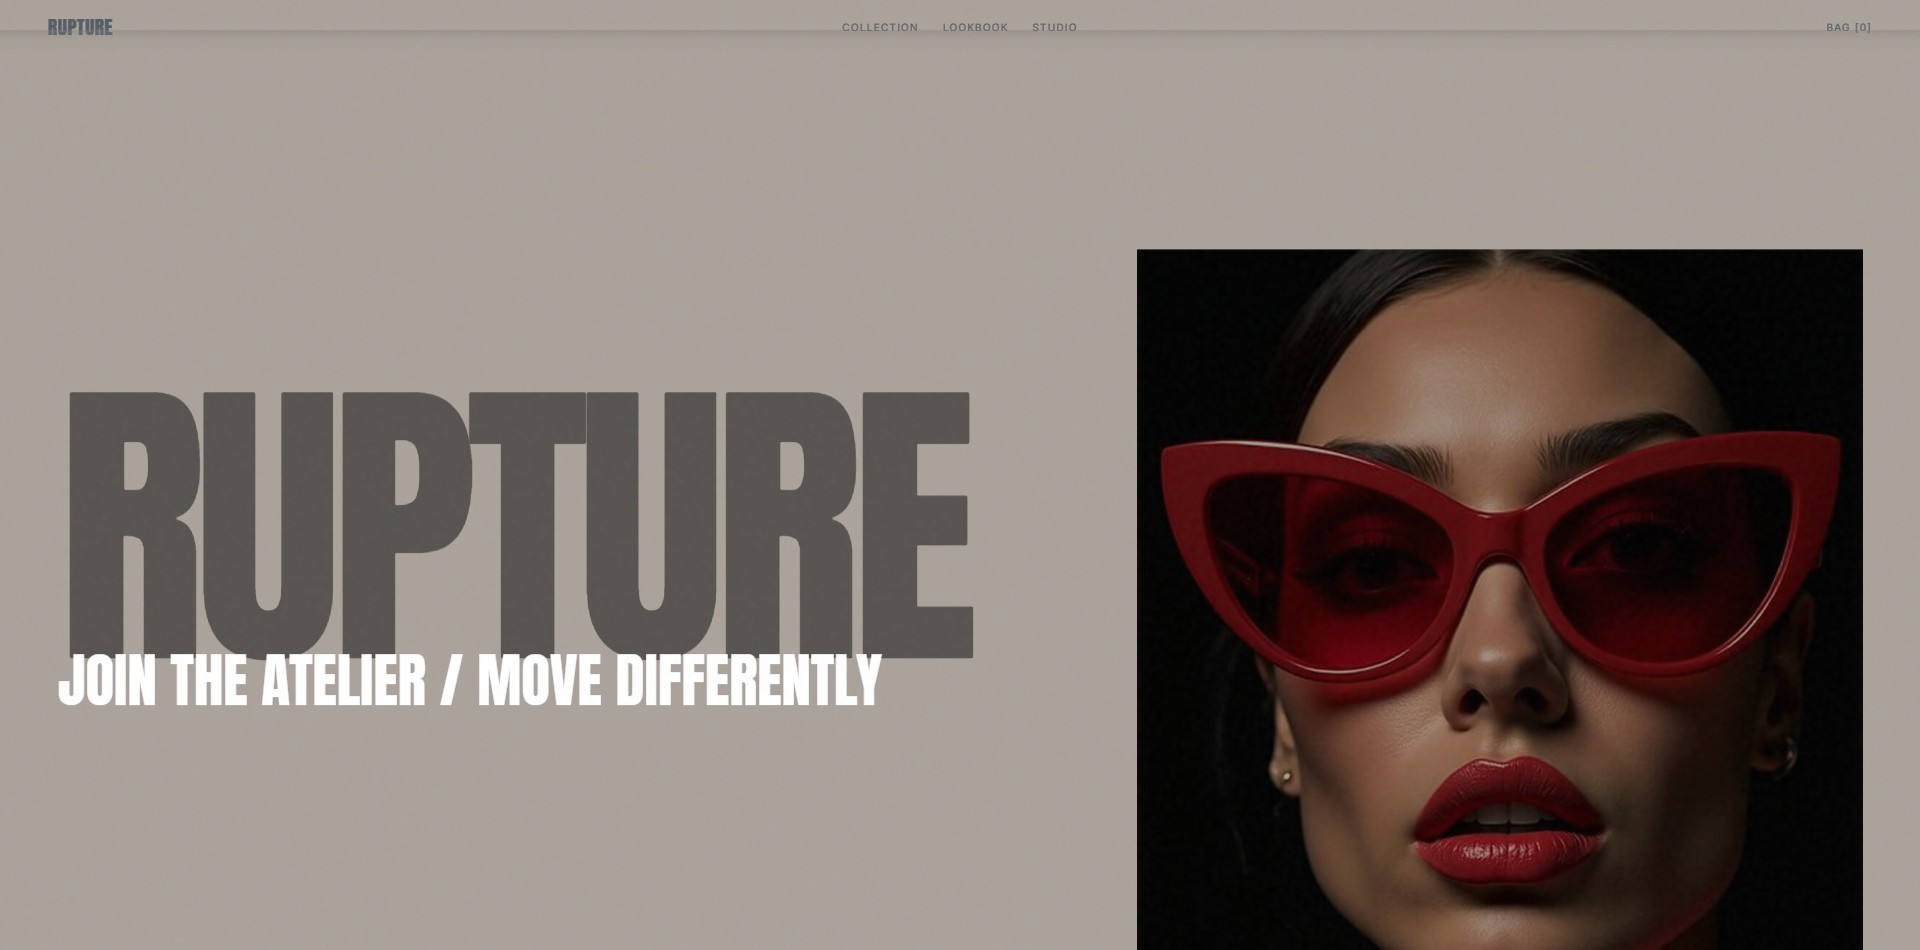
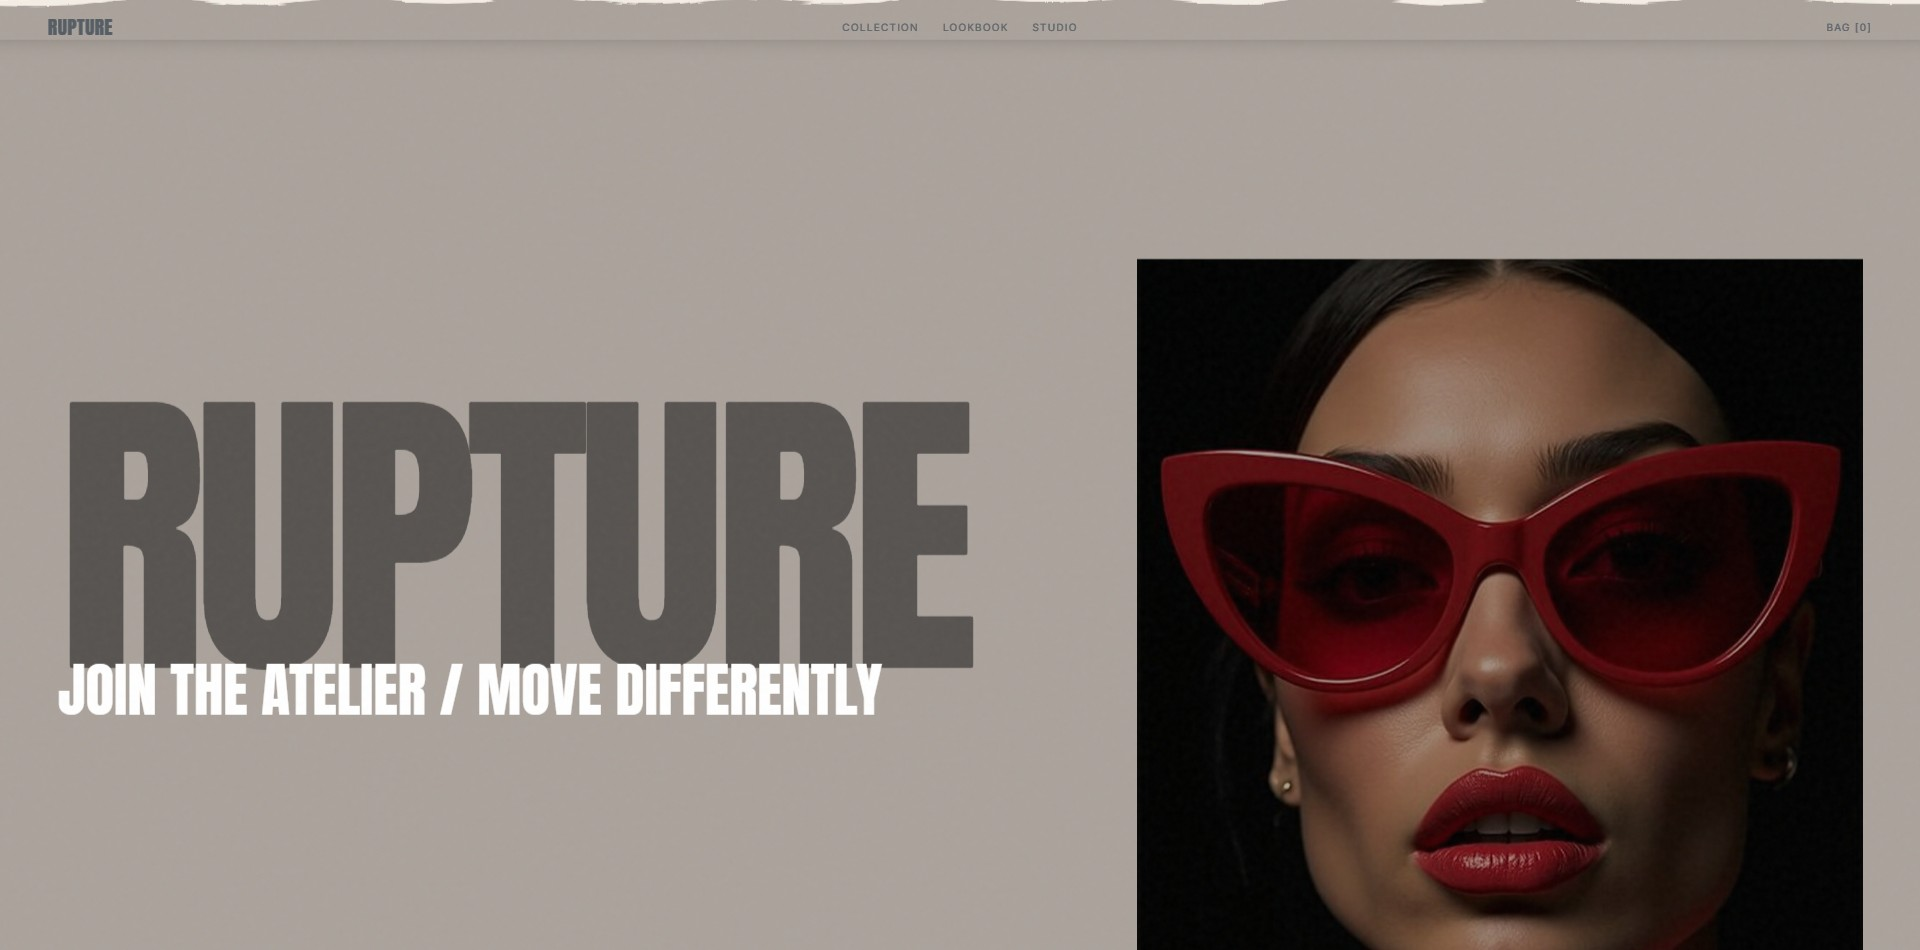
Rebuild Rupture paper roll and layout

diff --git a/rupture/index.html b/rupture/index.html
@@ -39,8 +39,8 @@ button,a{font:inherit}
 .hero-half video{width:100%;height:100%;object-fit:cover;object-position:center 10%}
 .hero-half.left{clip-path:polygon(0 0,48.8% 0,47.4% 4%,49.1% 8%,46.9% 13%,49.3% 18%,47.2% 23%,48.7% 29%,46.5% 34%,49% 40%,47.1% 46%,48.9% 52%,46.7% 58%,49.2% 64%,47% 70%,48.6% 76%,46.8% 82%,49.1% 88%,47.3% 94%,48.5% 100%,0 100%)}
 .hero-half.right{clip-path:polygon(53% 0,100% 0,100% 100%,52.6% 100%,54% 95%,51.9% 89%,54.2% 83%,52.1% 77%,54.4% 71%,52.2% 65%,54.1% 59%,51.8% 53%,54.3% 47%,52% 41%,54.2% 35%,52.1% 29%,54.4% 23%,52.2% 17%,54% 11%,52% 5%);filter:grayscale(.94) contrast(1.08) brightness(.92);transform:translateY(-1.2%)}
-.hero-seam{position:absolute;top:-3%;bottom:-3%;left:50%;width:clamp(62px,5.4vw,86px);transform:translateX(-50%);z-index:3;pointer-events:none;filter:drop-shadow(-7px 2px 7px rgba(35,28,22,.28)) drop-shadow(5px 1px 3px rgba(255,255,255,.48))}
-.hero-seam img{width:100%;height:100%;object-fit:fill}
+.hero-seam{position:absolute;top:-3%;bottom:-3%;left:50%;width:clamp(52px,4.2vw,70px);transform:translateX(-50%);z-index:3;pointer-events:none;filter:drop-shadow(-6px 2px 6px rgba(35,28,22,.34)) drop-shadow(4px 1px 3px rgba(255,255,255,.44))}
+.hero-seam img{position:absolute;left:50%;top:50%;width:calc(100svh + 130px);height:clamp(52px,4.2vw,70px);max-width:none;object-fit:fill;transform:translate(-50%,-50%) rotate(90deg)}
 .hero-copy{position:absolute;right:4.2%;top:50%;width:min(33vw,580px);transform:translateY(-50%);z-index:5;text-align:left}
 .hero-copy h1{font-family:var(--display);font-size:clamp(42px,6vw,116px);line-height:.79;letter-spacing:-.025em;text-transform:uppercase}
 .hero-copy h1 span{display:block;white-space:nowrap}
@@ -54,9 +54,9 @@ button,a{font:inherit}
 .arrivals{position:relative;background:var(--paper)}
 .arrivals-pin{position:relative;height:100svh;min-height:620px;overflow:hidden;padding-top:76px}
 .pin-head{position:relative;z-index:10;display:flex;align-items:flex-end;justify-content:space-between;padding:0 clamp(24px,4vw,60px) 22px}
-.pin-head h2{font-family:var(--display);font-size:clamp(42px,6.5vw,118px);line-height:.82;text-transform:uppercase;letter-spacing:-.02em}
+.pin-head h2{font-family:var(--display);font-size:clamp(42px,5.2vw,96px);line-height:.86;text-transform:uppercase;letter-spacing:-.018em}
 .pin-head p{max-width:28ch;font-size:11px;line-height:1.5;color:var(--muted);text-align:right}
-.arrivals-window{position:absolute;left:0;right:0;bottom:28px;top:27%;overflow:hidden}
+.arrivals-window{position:absolute;left:0;right:0;bottom:28px;top:32%;overflow:hidden}
 .arrivals-track{height:100%;display:flex;gap:16px;width:max-content;padding:0 5vw;will-change:transform}
 .product-card{position:relative;flex:0 0 clamp(270px,28vw,470px);height:100%;overflow:hidden;background:#ddd5c9}
 .product-card.wide{flex-basis:clamp(310px,34vw,570px)}
@@ -101,8 +101,8 @@ button,a{font:inherit}
 /* Turntable editorial */
 .turntable{position:relative;min-height:100svh;background:var(--paper);display:grid;grid-template-columns:.82fr 1.18fr;align-items:stretch;overflow:hidden}
 .turn-copy{display:flex;flex-direction:column;justify-content:center;padding:10vh 6vw;position:relative;z-index:4}
-.turn-copy h2{font-family:var(--display);font-size:clamp(58px,8vw,148px);line-height:.78;text-transform:uppercase}
-.turn-copy h2 em{display:block;color:var(--red);font-family:var(--serif);font-weight:420;text-transform:none}
+.turn-copy h2{font-family:var(--display);font-size:clamp(54px,6.4vw,118px);line-height:.88;text-transform:uppercase}
+.turn-copy h2 em{display:block;color:var(--red);font-family:var(--serif);font-weight:420;text-transform:none;margin-top:.05em}
 .turn-copy p{margin-top:28px;max-width:40ch;font-size:13px;line-height:1.65;color:var(--muted)}
 .turn-media{position:relative;min-height:100svh;background:#dfd7ca;overflow:hidden}
 .turn-media video{width:100%;height:100%;object-fit:cover;object-position:center 8%}
@@ -113,30 +113,27 @@ button,a{font:inherit}
 
 /* Crouching model and painted words */
 .crouch{position:relative;height:100svh;min-height:620px;overflow:hidden;background:#f5f1e9}
-.crouch-lines{position:absolute;inset:0;z-index:1;display:flex;align-items:center;justify-content:center;pointer-events:none}
-.painted{font-family:var(--display);font-size:clamp(80px,15vw,280px);line-height:.75;text-transform:uppercase;color:var(--red);white-space:nowrap;letter-spacing:-.04em;transform:rotate(-5deg);clip-path:inset(0 100% 0 0);filter:url(#paintRough)}
+.crouch-lines{position:absolute;inset:12vh 0 0;z-index:7;display:flex;align-items:center;justify-content:center;pointer-events:none}
+.painted{font-family:var(--display);font-size:clamp(72px,11vw,210px);line-height:.82;text-transform:uppercase;color:var(--red);white-space:nowrap;letter-spacing:-.025em;transform:rotate(-4deg);clip-path:inset(0 100% 0 0);filter:url(#paintRough);text-shadow:0 3px 0 rgba(255,255,255,.18)}
 .crouch-video{position:absolute;left:52%;top:50%;height:88%;width:min(42vw,590px);transform:translate(-50%,-48%);z-index:3;overflow:hidden}
 .crouch-video video{width:100%;height:100%;object-fit:cover;object-position:center 5%;mix-blend-mode:multiply}
 .crouch-copy{position:absolute;z-index:5;left:4vw;right:4vw;top:10%;display:flex;justify-content:space-between;align-items:flex-start}
-.crouch-copy h2{font-family:var(--display);font-size:clamp(48px,6vw,108px);line-height:.8;text-transform:uppercase}
+.crouch-copy h2{font-family:var(--display);font-size:clamp(46px,4.8vw,86px);line-height:.87;text-transform:uppercase;letter-spacing:-.012em}
 .crouch-copy .right{text-align:right;max-width:24ch;font-size:11px;line-height:1.55;color:var(--muted)}
 .freedom{position:absolute;right:4vw;bottom:5vh;z-index:5;font-family:var(--display);font-size:clamp(48px,7vw,130px);line-height:.8;text-transform:uppercase}
 .freedom small{display:block;color:var(--red);font-size:.12em;letter-spacing:.16em;text-align:right;margin-bottom:10px}
 
-/* Lips mask film */
+/* One continuous film: kiss reveal into torn-paper takeover */
 .vision-intro{position:relative;min-height:62vh;display:grid;place-items:center;text-align:center;padding:100px 24px;background:var(--paper)}
-.vision-intro h2{font-family:var(--display);font-size:clamp(56px,9vw,170px);line-height:.78;text-transform:uppercase}
-.vision-intro h2 em{color:var(--red);font-family:var(--serif);font-weight:400;text-transform:none}
+.vision-intro h2{font-family:var(--display);font-size:clamp(54px,6.6vw,122px);line-height:.88;text-transform:uppercase}
+.vision-intro h2 em{display:block;color:var(--red);font-family:var(--serif);font-weight:400;text-transform:none;margin-top:.03em}
 .vision-intro p{max-width:60ch;margin:26px auto 0;color:var(--muted);font-size:12px;line-height:1.65}
-.mask-section{position:relative;background:var(--paper)}
-.mask-pin{position:relative;height:100svh;min-height:600px;overflow:hidden;background:var(--paper)}
-.mask-video{position:absolute;inset:0;width:100%;height:100%;object-fit:cover;object-position:center 28%;-webkit-mask-image:var(--lips-mask);mask-image:var(--lips-mask);-webkit-mask-repeat:no-repeat;mask-repeat:no-repeat;-webkit-mask-position:center;mask-position:center;-webkit-mask-size:18% auto;mask-size:18% auto;will-change:-webkit-mask-size,mask-size}
+.film-story{position:relative;background:var(--dark)}
+.film-pin{position:relative;height:100svh;min-height:620px;overflow:hidden;background:var(--paper)}
+.mask-video{position:absolute;inset:0;width:100%;height:100%;object-fit:cover;object-position:center 28%;filter:brightness(.78) saturate(.86);-webkit-mask-image:var(--lips-mask);mask-image:var(--lips-mask);-webkit-mask-repeat:no-repeat;mask-repeat:no-repeat;-webkit-mask-position:center;mask-position:center;-webkit-mask-size:18% auto;mask-size:18% auto;will-change:-webkit-mask-size,mask-size}
 .mask-label{position:absolute;left:50%;top:50%;z-index:4;transform:translate(-50%,-50%);font-family:var(--display);font-size:11px;letter-spacing:.22em;text-transform:uppercase;color:#fff;mix-blend-mode:difference;pointer-events:none}
 
-/* Torn-paper takeover */
-.tear-section{position:relative;background:var(--dark)}
-.tear-pin{position:relative;height:100svh;min-height:620px;overflow:hidden;background:var(--dark)}
-.tear-film{position:absolute;inset:0;width:100%;height:100%;object-fit:cover;object-position:center 28%;filter:brightness(.72) saturate(.82)}
+/* Torn-paper takeover inside the same pinned film */
 .paper-sheet{position:absolute;left:-2%;right:-2%;top:0;height:112%;z-index:4;background:#aaa29b;color:#22201f;transform:none;box-shadow:0 -30px 70px rgba(0,0,0,.55);will-change:transform}
 .deckle{position:absolute;left:0;right:0;top:-82px;height:100px;filter:drop-shadow(0 -8px 12px rgba(0,0,0,.42));line-height:0}
 .deckle svg{width:100%;height:100%}
@@ -155,14 +152,7 @@ button,a{font:inherit}
 .loop-hero video{justify-self:center;height:92vh;max-width:48vw;object-fit:cover;object-position:center 8%;filter:contrast(1.02)}
 .loop-hero h2{font-family:var(--display);font-size:clamp(58px,8vw,155px);line-height:.78;text-transform:uppercase}
 .loop-hero h2 span{display:block;color:var(--red);font-family:var(--serif);font-style:italic;text-transform:none;font-weight:400}
-.curl-sheet{position:absolute;inset:-9%;z-index:8;transform:rotate(-5.5deg) scale(1.13);transform-style:preserve-3d;pointer-events:none}
-.curl-page{position:absolute;inset:-9%;z-index:8;overflow:hidden;transform-origin:100% 50%;transform:rotate(-5.5deg) scale(1.13);will-change:transform,border-radius,box-shadow;backface-visibility:hidden;background:#aaa29b}
-.curl-page img{width:100%;height:100%;object-fit:cover;filter:saturate(.86)}
-.curl-page::after{content:"";position:absolute;z-index:2;top:-8%;bottom:-8%;right:-8%;width:28%;border-radius:50%;background:linear-gradient(90deg,transparent,rgba(0,0,0,.3) 24%,rgba(249,244,235,.92) 49%,rgba(159,150,141,.7) 66%,transparent);filter:drop-shadow(-22px 0 24px rgba(0,0,0,.38));pointer-events:none}
-.curl-strip{position:absolute;top:0;bottom:0;overflow:hidden;transform-origin:left center;transform-style:preserve-3d;backface-visibility:hidden;will-change:transform,opacity;background:#aaa29b}
-.curl-strip img{position:absolute;top:0;height:100%;width:calc(100vw * 1.18);max-width:none;object-fit:cover;object-position:center;filter:saturate(.82)}
-.curl-strip::after{content:"";position:absolute;inset:0;background:linear-gradient(90deg,rgba(255,255,255,.7),transparent 24%,transparent 70%,rgba(0,0,0,.26));mix-blend-mode:soft-light}
-.curl-fold{position:absolute;z-index:9;top:-18%;bottom:-18%;left:50%;width:23vw;min-width:240px;border-radius:50%;pointer-events:none;transform:rotate(-5.5deg);background:linear-gradient(90deg,transparent 0%,rgba(0,0,0,.34) 16%,rgba(246,241,232,.96) 42%,rgba(171,163,153,.92) 61%,transparent 100%);filter:drop-shadow(-18px 0 24px rgba(0,0,0,.3));opacity:0}
+.curl-canvas{position:absolute;inset:0;z-index:8;width:100%;height:100%;pointer-events:none;will-change:contents}
 .curl-caption{position:absolute;right:3vw;bottom:3vh;z-index:10;font-family:var(--display);font-size:10px;letter-spacing:.17em;text-transform:uppercase;color:#fff;mix-blend-mode:difference}
 
 @media(max-width:900px){
@@ -173,16 +163,16 @@ button,a{font:inherit}
 }
 @media(max-width:640px){
   .hero{min-height:700px}.hero-kicker{top:9%;left:20px;font-size:27px}.hero-model{left:50%;top:17%;bottom:0;width:78vw;height:83%}.hero-copy{right:20px;top:19%;width:44vw;transform:none;text-align:right}.hero-copy h1{font-size:9.7vw}.drop-stamp{bottom:9%;font-size:13vw}.hero-meta{left:20px;right:20px}
-  .pin-head{padding-inline:18px}.arrivals-window{top:24%}.product-card,.product-card.wide{flex-basis:74vw}.kiss-badge{width:72px}
+  .pin-head{padding-inline:18px}.pin-head h2{font-size:12vw}.arrivals-window{top:30%}.product-card,.product-card.wide{flex-basis:74vw}.kiss-badge{width:72px}
   .campaign-copy{left:20px}.campaign-copy h2{font-size:18vw}
   .categories-title{left:20px}.categories-hint{display:none}.category-card,.flip-shell{flex-basis:68vw}
-  .turntable{grid-template-columns:1fr;min-height:150svh}.turn-copy{min-height:55svh;padding:90px 24px 40px}.turn-media{min-height:95svh}.turn-copy h2{font-size:17vw}
-  .crouch-video{left:50%;width:88vw;height:78%;top:55%}.crouch-copy{left:20px;right:20px}.crouch-copy .right{display:none}.painted{font-size:20vw}.freedom{right:20px;font-size:15vw}
-  .vision-intro{min-height:70svh}.vision-intro h2{font-size:17vw}
+  .turntable{grid-template-columns:1fr;min-height:150svh}.turn-copy{min-height:55svh;padding:90px 24px 40px}.turn-media{min-height:95svh}.turn-copy h2{font-size:14vw}
+  .crouch-video{left:50%;width:88vw;height:78%;top:55%}.crouch-copy{left:20px;right:20px}.crouch-copy .right{display:none}.crouch-copy h2{font-size:12vw}.crouch-lines{inset:16vh 0 0}.painted{font-size:17vw}.freedom{right:20px;font-size:13vw}
+  .vision-intro{min-height:70svh}.vision-intro h2{font-size:14vw}
   .paper-content{grid-template-columns:1fr;padding:8vh 24px}.paper-title{font-size:24vw;align-self:start}.paper-model{position:absolute;right:-6%;bottom:0;width:62%;height:75%;opacity:.9}.paper-join{left:24px;right:24px}
   .loop-hero{grid-template-columns:1fr;padding:60px 24px}.loop-hero video{position:absolute;right:-12%;bottom:0;height:83%;max-width:78vw;opacity:.92}.loop-hero h2{position:relative;z-index:2;font-size:17vw}
 }
-@media(prefers-reduced-motion:reduce){.kiss-badge{animation:none}.curl-sheet,.curl-page{display:none}.mask-video{-webkit-mask:none;mask:none}}
+@media(prefers-reduced-motion:reduce){.kiss-badge{animation:none}.curl-canvas{display:none}.mask-video{-webkit-mask:none;mask:none}}
 </style>
 </head>
 <body>
@@ -197,7 +187,7 @@ button,a{font:inherit}
   <div class="hero-model" aria-label="Moving model in the Rupture collection">
     <div class="hero-half left"><video class="autoplay" autoplay muted loop playsinline preload="auto" poster="img/ru_hero.jpg"><source src="vid/ru_hero.mp4" type="video/mp4"></video></div>
     <div class="hero-half right"><video class="autoplay" autoplay muted loop playsinline preload="auto" poster="img/ru_hero.jpg"><source src="vid/ru_hero.mp4" type="video/mp4"></video></div>
-    <div class="hero-seam" aria-hidden="true"><img src="img/torn-seam.svg" alt=""></div>
+    <div class="hero-seam" aria-hidden="true"><img src="img/paper-rip-strip.png" alt=""></div>
     <div class="drop-stamp"><b>NEW</b> DROP</div>
   </div>
   <div class="hero-copy"><h1 class="fit-group"><span>Glamour,</span><span class="accent">fractured.</span></h1></div>
@@ -254,11 +244,9 @@ button,a{font:inherit}
 
 <section class="vision-intro"><div><div class="eyebrow">05 / Rupture film</div><h2>A vision<em>in motion.</em></h2><p>A kiss becomes a screen. The collection opens from a mark into a room, then tears the room apart again.</p></div></section>
 
-<section class="mask-section" id="film"><div class="mask-pin"><video class="mask-video autoplay" id="maskVideo" autoplay muted loop playsinline preload="metadata" poster="img/ru_couple.jpg"><source src="vid2/couple.mp4" type="video/mp4"></video><div class="mask-label">Enter the film</div></div></section>
+<section class="film-story" id="film"><div class="film-pin mask-pin tear-pin"><video class="mask-video autoplay" id="maskVideo" autoplay muted loop playsinline preload="metadata" poster="img/ru_couple.jpg"><source src="vid2/couple.mp4" type="video/mp4"></video><div class="mask-label">Enter the film</div><div class="paper-sheet" id="paperSheet"><div class="deckle" aria-hidden="true"><svg viewBox="0 0 1600 110" preserveAspectRatio="none"><defs><filter id="deckleLip" x="-3%" y="-35%" width="106%" height="170%"><feTurbulence type="fractalNoise" baseFrequency=".018 .23" numOctaves="3" seed="47" result="noise"/><feDisplacementMap in="SourceGraphic" in2="noise" scale="6" xChannelSelector="R" yChannelSelector="G"/></filter><filter id="deckleMain" x="-3%" y="-35%" width="106%" height="170%"><feTurbulence type="fractalNoise" baseFrequency=".014 .19" numOctaves="4" seed="23" result="noise"/><feDisplacementMap in="SourceGraphic" in2="noise" scale="8" xChannelSelector="R" yChannelSelector="G"/></filter></defs><path d="M-50 67 C20 57 48 75 112 60 C170 47 205 74 265 61 C324 49 358 71 420 57 C482 45 520 73 579 60 C641 47 676 75 738 58 C800 44 836 72 898 60 C958 49 997 74 1058 56 C1119 44 1159 72 1219 59 C1281 47 1318 74 1380 57 C1442 45 1480 73 1650 59 L1650 145 L-50 145 Z" fill="#f4eee5" filter="url(#deckleLip)"/><path d="M-50 75 C27 65 54 82 118 68 C178 57 211 83 272 69 C332 58 367 80 428 67 C489 55 526 82 587 69 C648 57 684 83 746 66 C808 54 844 80 906 68 C967 57 1004 82 1066 65 C1127 53 1165 81 1227 67 C1288 56 1325 82 1387 65 C1449 54 1487 82 1650 67 L1650 145 L-50 145 Z" fill="#aaa29b" filter="url(#deckleMain)"/><path d="M-50 67 C20 57 48 75 112 60 C170 47 205 74 265 61 C324 49 358 71 420 57 C482 45 520 73 579 60 C641 47 676 75 738 58 C800 44 836 72 898 60 C958 49 997 74 1058 56 C1119 44 1159 72 1219 59 C1281 47 1318 74 1380 57 C1442 45 1480 73 1650 59" fill="none" stroke="#fffaf0" stroke-width="2.4" opacity=".72" filter="url(#deckleLip)"/></svg></div><div class="paper-content"><div class="paper-title">Rupture<span>Join the atelier / move differently</span></div><div class="paper-model"><img src="img/ru_red.jpg" alt="Rupture model in the closing editorial"></div></div><div class="paper-join"><span>Berlin / Kyiv / 2026</span><button type="button">Subscribe</button><span>Instagram / Journal</span></div></div></div></section>
 
-<section class="tear-section"><div class="tear-pin"><video class="tear-film autoplay" autoplay muted loop playsinline preload="metadata" poster="img/ru_couple.jpg"><source src="vid2/couple.mp4" type="video/mp4"></video><div class="paper-sheet" id="paperSheet"><div class="deckle" aria-hidden="true"><svg viewBox="0 0 1600 110" preserveAspectRatio="none"><defs><filter id="deckleLip" x="-3%" y="-35%" width="106%" height="170%"><feTurbulence type="fractalNoise" baseFrequency=".018 .23" numOctaves="3" seed="47" result="noise"/><feDisplacementMap in="SourceGraphic" in2="noise" scale="6" xChannelSelector="R" yChannelSelector="G"/></filter><filter id="deckleMain" x="-3%" y="-35%" width="106%" height="170%"><feTurbulence type="fractalNoise" baseFrequency=".014 .19" numOctaves="4" seed="23" result="noise"/><feDisplacementMap in="SourceGraphic" in2="noise" scale="8" xChannelSelector="R" yChannelSelector="G"/></filter></defs><path d="M-50 67 C20 57 48 75 112 60 C170 47 205 74 265 61 C324 49 358 71 420 57 C482 45 520 73 579 60 C641 47 676 75 738 58 C800 44 836 72 898 60 C958 49 997 74 1058 56 C1119 44 1159 72 1219 59 C1281 47 1318 74 1380 57 C1442 45 1480 73 1650 59 L1650 145 L-50 145 Z" fill="#f4eee5" filter="url(#deckleLip)"/><path d="M-50 75 C27 65 54 82 118 68 C178 57 211 83 272 69 C332 58 367 80 428 67 C489 55 526 82 587 69 C648 57 684 83 746 66 C808 54 844 80 906 68 C967 57 1004 82 1066 65 C1127 53 1165 81 1227 67 C1288 56 1325 82 1387 65 C1449 54 1487 82 1650 67 L1650 145 L-50 145 Z" fill="#aaa29b" filter="url(#deckleMain)"/><path d="M-50 67 C20 57 48 75 112 60 C170 47 205 74 265 61 C324 49 358 71 420 57 C482 45 520 73 579 60 C641 47 676 75 738 58 C800 44 836 72 898 60 C958 49 997 74 1058 56 C1119 44 1159 72 1219 59 C1281 47 1318 74 1380 57 C1442 45 1480 73 1650 59" fill="none" stroke="#fffaf0" stroke-width="2.4" opacity=".72" filter="url(#deckleLip)"/></svg></div><div class="paper-content"><div class="paper-title">Rupture<span>Join the atelier / move differently</span></div><div class="paper-model"><img src="img/ru_red.jpg" alt="Rupture model in the closing editorial"></div></div><div class="paper-join"><span>Berlin / Kyiv / 2026</span><button type="button">Subscribe</button><span>Instagram / Journal</span></div></div></div></section>
-
-<section class="curl-section" id="loop"><div class="curl-pin"><div class="loop-hero"><video class="autoplay" autoplay muted loop playsinline preload="metadata" poster="img/ru_hero.jpg"><source src="vid/ru_hero.mp4" type="video/mp4"></video><h2>Begin the<span>fracture again.</span></h2></div><div class="curl-page" id="curlPage" aria-hidden="true"><img src="img/footer-scene.jpg" alt=""></div><div class="curl-caption">The previous page rolls back into the beginning</div></div></section>
+<section class="curl-section" id="loop"><div class="curl-pin"><div class="loop-hero"><video class="autoplay" autoplay muted loop playsinline preload="metadata" poster="img/ru_hero.jpg"><source src="vid/ru_hero.mp4" type="video/mp4"></video><h2>Begin the<span>fracture again.</span></h2></div><canvas class="curl-canvas" id="curlCanvas" aria-hidden="true"></canvas><div class="curl-caption">The torn page rolls back into the beginning</div></div></section>
 
 <script src="../studio-terra/lib/gsap.min.js"></script>
 <script src="../studio-terra/lib/ScrollTrigger.min.js"></script>
@@ -281,8 +269,77 @@ function fitText(){
 }
 addEventListener('resize',fitText);addEventListener('load',fitText);if(document.fonts&&document.fonts.ready)document.fonts.ready.then(fitText);
 
-const state={version:36,arrivals:0,categories:0,mask:0,tear:0,curl:0};
-let arrivalsTween,categoryTimeline,maskTween,tearTween,curlTimeline;
+/* The closing page is raster-masked by the generated paper rip, then redrawn as a curved strip mesh. */
+const curlCanvas=document.getElementById('curlCanvas');
+const curlContext=curlCanvas.getContext('2d',{alpha:true});
+const curlSource=document.createElement('canvas');
+const curlSourceContext=curlSource.getContext('2d',{alpha:true});
+const curlMask=document.createElement('canvas');
+const curlMaskContext=curlMask.getContext('2d',{alpha:true});
+const curlTexture=new Image();curlTexture.decoding='async';curlTexture.src='img/footer-scene.jpg';
+const curlRip=new Image();curlRip.decoding='async';curlRip.src='img/paper-rip-strip.png';
+const curlDriver={progress:0};
+let curlReady=false,curlFrame=0;
+
+function coverImage(ctx,img,w,h){
+  const scale=Math.max(w/img.naturalWidth,h/img.naturalHeight),sw=w/scale,sh=h/scale;
+  const sx=(img.naturalWidth-sw)/2,sy=(img.naturalHeight-sh)/2;
+  ctx.drawImage(img,sx,sy,sw,sh,0,0,w,h);
+}
+function rebuildCurlTexture(){
+  if(!curlTexture.complete||!curlRip.complete||!curlTexture.naturalWidth||!curlRip.naturalWidth)return;
+  const w=Math.max(1,innerWidth),h=Math.max(1,innerHeight),dpr=Math.min(devicePixelRatio||1,1.5);
+  curlCanvas.width=Math.round(w*dpr);curlCanvas.height=Math.round(h*dpr);curlContext.setTransform(dpr,0,0,dpr,0,0);curlContext.imageSmoothingEnabled=true;curlContext.imageSmoothingQuality='high';
+  curlSource.width=curlMask.width=w;curlSource.height=curlMask.height=h;
+  curlSourceContext.clearRect(0,0,w,h);coverImage(curlSourceContext,curlTexture,w,h);
+  curlMaskContext.clearRect(0,0,w,h);curlMaskContext.fillStyle='#fff';
+  const edge=Math.max(38,h*.055),ripH=Math.max(110,h*.17),ripY=-ripH*.34;
+  curlMaskContext.fillRect(0,edge,w,h-edge*2);
+  curlMaskContext.drawImage(curlRip,0,ripY,w,ripH);
+  curlMaskContext.save();curlMaskContext.translate(0,h);curlMaskContext.scale(1,-1);curlMaskContext.drawImage(curlRip,0,ripY,w,ripH);curlMaskContext.restore();
+  curlSourceContext.globalCompositeOperation='destination-in';curlSourceContext.drawImage(curlMask,0,0);curlSourceContext.globalCompositeOperation='source-over';
+  curlReady=true;requestCurlDraw(curlDriver.progress);
+}
+function drawCurl(progress){
+  if(!curlReady)return;
+  const p=Math.max(0,Math.min(1,progress)),w=innerWidth,h=innerHeight;
+  curlCanvas.dataset.progress=p.toFixed(4);curlContext.clearRect(0,0,w,h);
+  const fade=p>.94?Math.max(0,(1-p)/.06):1;if(fade<=0)return;
+  const fold=w*(1.07-1.27*p),radius=Math.max(34,w*(.055+.034*Math.sin(p*Math.PI))),tilt=-h*.045/w;
+
+  if(fold<w+radius&&fold>-radius*1.5){
+    const shadow=curlContext.createLinearGradient(fold-radius*1.5,0,fold+radius*1.8,0);
+    shadow.addColorStop(0,'rgba(0,0,0,0)');shadow.addColorStop(.38,'rgba(0,0,0,.22)');shadow.addColorStop(.58,'rgba(0,0,0,.08)');shadow.addColorStop(1,'rgba(0,0,0,0)');
+    curlContext.fillStyle=shadow;curlContext.fillRect(fold-radius*1.5,0,radius*3.3,h);
+  }
+
+  curlContext.save();curlContext.globalAlpha=fade;
+  const flat=Math.max(0,Math.min(w,fold));
+  if(flat>0){curlContext.save();curlContext.transform(1,tilt,0,1,0,-tilt*w*.5);curlContext.drawImage(curlSource,0,0,flat,h,0,0,flat,h);curlContext.restore();}
+
+  const step=Math.max(2,Math.ceil(w/640)),start=Math.max(0,fold);
+  for(let sx=w-step;sx>=start;sx-=step){
+    const theta=(sx-fold)/radius;if(theta<0||theta>Math.PI)continue;
+    const sin=Math.sin(theta),cos=Math.cos(theta),dx=fold+sin*radius;
+    const stripW=Math.max(1.5,step*Math.max(.08,Math.abs(cos))+2.4),scaleY=1+sin*.052;
+    const dy=(dx-w*.5)*tilt-(scaleY-1)*h*.5;
+    curlContext.save();curlContext.globalAlpha=fade*(cos<0?.76:1);
+    curlContext.drawImage(curlSource,sx,0,Math.min(step,w-sx),h,dx,dy,stripW,h*scaleY);
+    curlContext.restore();
+  }
+  curlContext.restore();
+
+  curlContext.save();curlContext.globalCompositeOperation='source-atop';
+  const light=curlContext.createLinearGradient(fold-radius*.12,0,fold+radius*1.16,0);
+  light.addColorStop(0,'rgba(18,15,13,.08)');light.addColorStop(.24,'rgba(255,252,245,.16)');light.addColorStop(.48,'rgba(255,253,247,.58)');light.addColorStop(.7,'rgba(38,32,28,.34)');light.addColorStop(.9,'rgba(245,238,228,.18)');light.addColorStop(1,'rgba(17,14,12,.12)');
+  curlContext.fillStyle=light;curlContext.fillRect(fold-radius*.15,-h*.1,radius*1.38,h*1.2);curlContext.restore();
+}
+function requestCurlDraw(progress){curlDriver.progress=progress;if(curlFrame)return;curlFrame=requestAnimationFrame(()=>{curlFrame=0;drawCurl(curlDriver.progress);});}
+Promise.all([curlTexture.decode?.()||Promise.resolve(),curlRip.decode?.()||Promise.resolve()]).then(rebuildCurlTexture).catch(()=>{});
+addEventListener('resize',()=>{clearTimeout(window.__curlResize);window.__curlResize=setTimeout(rebuildCurlTexture,120)});
+
+const state={version:37,arrivals:0,categories:0,mask:0,tear:0,curl:0};
+let arrivalsTween,categoryTimeline,filmTimeline,maskTween,tearTween,curlTimeline;
 const reduce=matchMedia('(prefers-reduced-motion:reduce)').matches;
 if(window.gsap&&window.ScrollTrigger&&!reduce){
   gsap.registerPlugin(ScrollTrigger);
@@ -306,13 +363,13 @@ if(window.gsap&&window.ScrollTrigger&&!reduce){
   gsap.to('#paintedWords',{clipPath:'inset(0 0% 0 0)',xPercent:-4,ease:'none',scrollTrigger:{trigger:'.crouch',start:'top 70%',end:'top 18%',scrub:true}});
   gsap.fromTo('.crouch-video',{yPercent:10},{yPercent:-4,ease:'none',scrollTrigger:{trigger:'.crouch',start:'top bottom',end:'bottom top',scrub:true}});
 
-  maskTween=gsap.to('#maskVideo',{webkitMaskSize:'650% auto',maskSize:'650% auto',ease:'none',scrollTrigger:{trigger:'.mask-pin',start:'top top',end:'+=1800',pin:true,scrub:.7,onUpdate:s=>state.mask=s.progress}});
-  gsap.to('.mask-label',{opacity:0,ease:'none',scrollTrigger:{trigger:'.mask-pin',start:'top top',end:'+=500',scrub:true}});
+  filmTimeline=gsap.timeline({scrollTrigger:{trigger:'.film-pin',start:'top top',end:'+=3400',pin:true,scrub:.72,onUpdate:s=>{state.mask=Math.min(1,s.progress/.52);state.tear=Math.max(0,Math.min(1,(s.progress-.52)/.48));}}});
+  maskTween=filmTimeline.to('#maskVideo',{webkitMaskSize:'650% auto',maskSize:'650% auto',duration:.52,ease:'none'},0);
+  filmTimeline.to('.mask-label',{opacity:0,duration:.12,ease:'none'},0);
+  tearTween=filmTimeline.fromTo('#paperSheet',{yPercent:105},{yPercent:0,duration:.48,ease:'none',immediateRender:true},.52);
 
-  tearTween=gsap.fromTo('#paperSheet',{yPercent:105},{yPercent:0,ease:'none',immediateRender:true,scrollTrigger:{trigger:'.tear-pin',start:'top top',end:'+=1600',pin:true,scrub:.72,onUpdate:s=>state.tear=s.progress}});
-
-  curlTimeline=gsap.timeline({scrollTrigger:{trigger:'.curl-pin',start:'top top',end:'+=1900',pin:true,scrub:.72,onUpdate:s=>state.curl=s.progress}});
-  curlTimeline.fromTo('#curlPage',{xPercent:0,yPercent:0,rotationY:0,rotationZ:-5.5,borderRadius:'0 0 0 0',boxShadow:'0 0 0 rgba(0,0,0,0)'},{xPercent:-116,yPercent:-7,rotationY:-38,rotationZ:-11,borderRadius:'0 48% 48% 0 / 0 28% 28% 0',boxShadow:'46px 20px 70px rgba(0,0,0,.42)',duration:.84,ease:'power1.inOut'},0);
+  curlTimeline=gsap.timeline({scrollTrigger:{trigger:'.curl-pin',start:'top top',end:'+=2100',pin:true,scrub:.72,onUpdate:s=>state.curl=s.progress}});
+  curlTimeline.to(curlDriver,{progress:1,duration:1,ease:'none',onUpdate:()=>requestCurlDraw(curlDriver.progress)},0);
   curlTimeline.to('.curl-caption',{opacity:0,duration:.15},.5);
   ScrollTrigger.addEventListener('refresh',fitText);
 }else{
@@ -327,15 +384,18 @@ window.__rupture=()=>{
     version:state.version,gsap:!!window.gsap,scrollTriggers:window.ScrollTrigger?ScrollTrigger.getAll().length:0,
     progress:{...state},videos:{total:videos.length,playing:videos.filter(v=>!v.paused&&v.currentTime>0).length,times:videos.slice(0,8).map(v=>+v.currentTime.toFixed(2))},
     flips:[matrixRotation(document.getElementById('flipA')),matrixRotation(document.getElementById('flipB'))],maskSize:getComputedStyle(document.getElementById('maskVideo')).webkitMaskSize,
-    paperTransform:getComputedStyle(document.getElementById('paperSheet')).transform,curlTransform:getComputedStyle(document.getElementById('curlPage')).transform,
+    paperTransform:getComputedStyle(document.getElementById('paperSheet')).transform,curlTransform:`roll(${curlCanvas.dataset.progress||'0'})`,
     overflow:document.documentElement.scrollWidth-innerWidth,fitTargets
   };
 };
 window.__rupturePose=(name,progress=.5)=>{
-  const map={arrivals:arrivalsTween,categories:categoryTimeline,mask:maskTween,tear:tearTween,curl:curlTimeline};
-  const target=map[name];if(!target)return null;target.progress(Math.max(0,Math.min(1,progress)));return window.__rupture();
+  const p=Math.max(0,Math.min(1,progress));
+  if(name==='mask'&&filmTimeline)filmTimeline.progress(p*.52);
+  else if(name==='tear'&&filmTimeline)filmTimeline.progress(.52+p*.48);
+  else{const map={arrivals:arrivalsTween,categories:categoryTimeline,curl:curlTimeline};const target=map[name];if(!target)return null;target.progress(p);}
+  return window.__rupture();
 };
-console.log('RUPTURE build v36');
+console.log('RUPTURE build v37');
 </script>
 </body>
 </html>